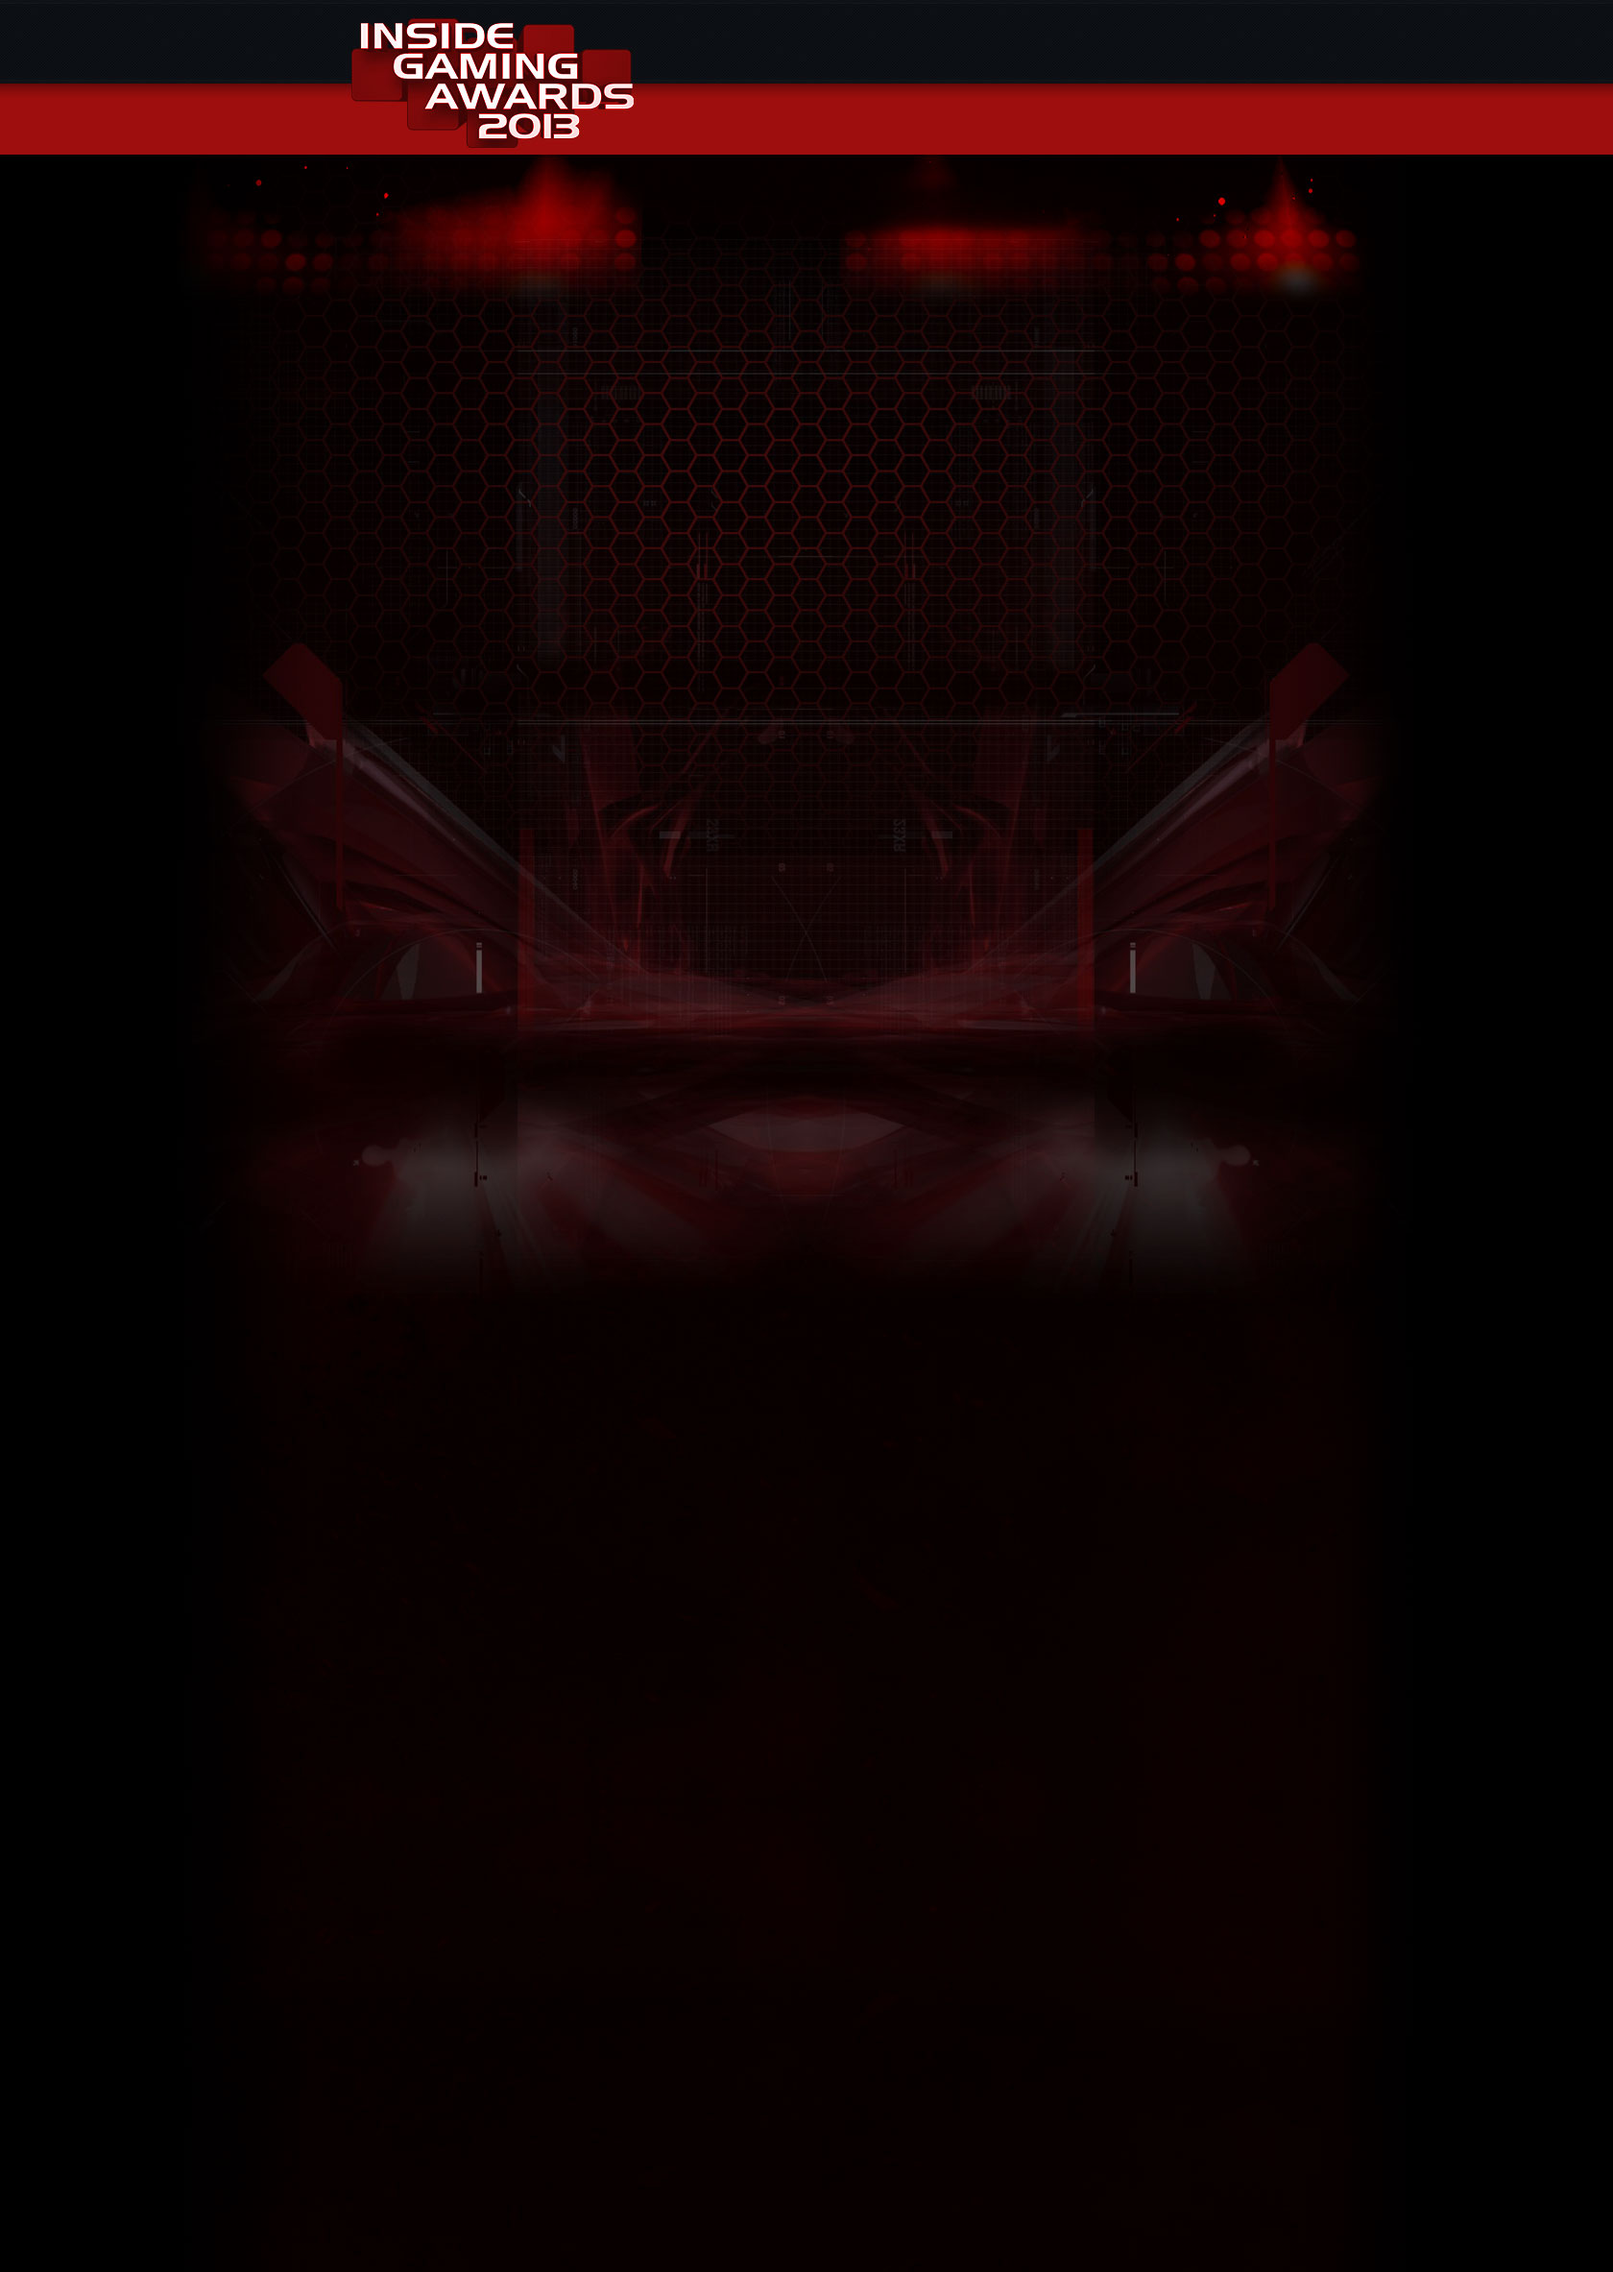
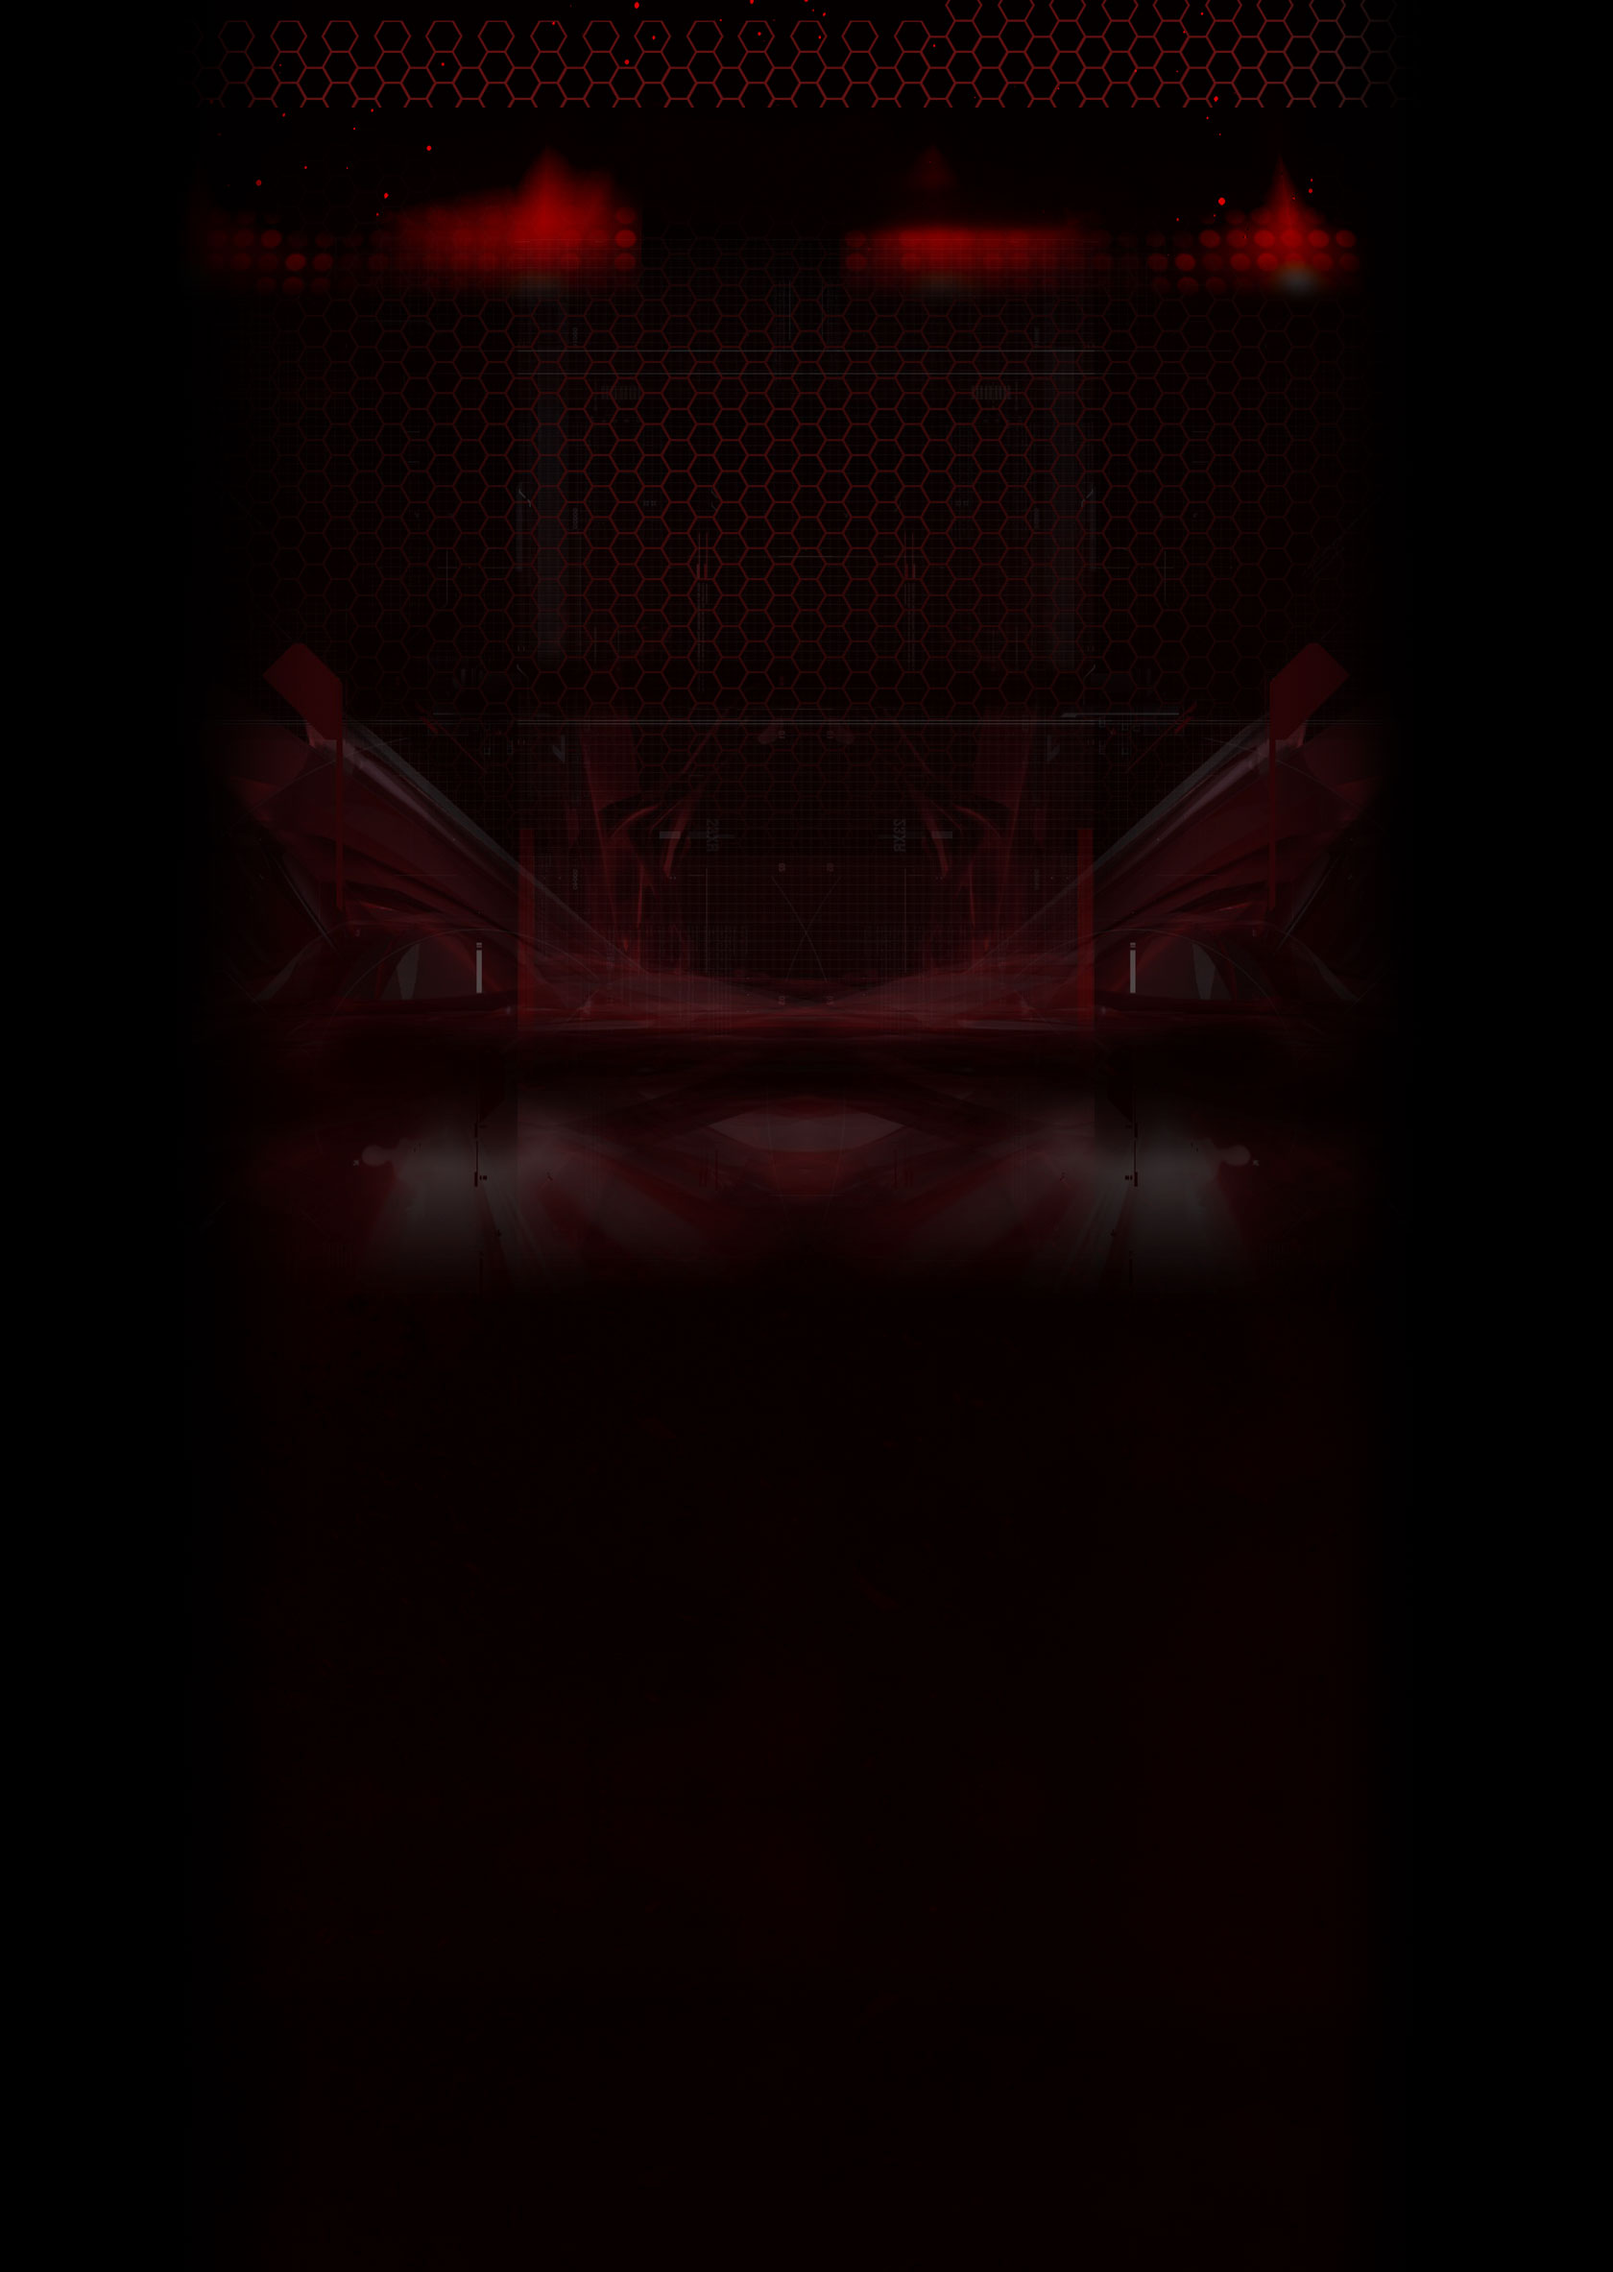
Almost finished layout

Changed region(s): [[0.0, 0.0, 1.0, 0.0926]]

diff --git a/app/webroot/css/iga.css b/app/webroot/css/iga.css
@@ -33,11 +33,15 @@
 }
 
 body {
-	/* background: #000 url(/img/reskin.jpg) no-repeat top center; */
+	background: #000 url(/img/reskin.jpg) no-repeat top center;
 	color: #fff;
 	margin: 0;
 	font-family: "ProximaNova-Regular", "Helvetica Neue", Arial, Helvetica, sans-serif;
     font-weight: "ProximaNova-Regular", "Helvetica Neue", Arial, Helvetica, sans-serif;
+}
+
+a {
+	outline: none;
 }
 
 .transition,
@@ -74,12 +78,25 @@ body {
 	position: relative;
 }
 
+#header-logo {
+	background: transparent url(/img/header-logo.png) no-repeat 0 0;
+	width: 295px;
+	height: 135px;
+	position: absolute;
+	top: 20px;
+	left: 0;
+	text-indent: -5000em;
+	margin: 0;
+}
+
 #social {
 	width: 250px;
 	height: 47px;
 	position: absolute;
 	top: 5px;
 	right: 0px;
+	margin: 0;
+	padding: 0;
 }
 
 #social > li {
@@ -96,15 +113,7 @@ body {
 }
 
 .social-icon:after {
-	content: "";
-	position: absolute;
-	top: 0; left: 0; bottom: 0; right: 0;
 	background: transparent url(/img/social-sprite.png) no-repeat 0 bottom;
-	opacity: 0;
-}
-
-.social-icon:hover:after {
-	opacity: 1;
 }
 
 #social-youtube {
@@ -147,26 +156,6 @@ body {
 	background-position: -164px bottom;
 }
 
-/*
-#social > li {
-	display: inline-block;
-	margin: 0 3px;
-}
-
-#social-icons {
-	padding: 0;
-	margin: 0;
-	position: absolute;
-	right: 15px;
-	top: 15px;
-}
-
-#social-icons > li > a {
-	text-indent: -5000em;
-	display: block;
-}
-*/
-
 /* =======================================================================
 	Twitter ticker
 ========================================================================== */
@@ -175,7 +164,6 @@ body {
 	top: 90px;
 	width: 100%;
 }
-/*
 
 #twitter-link {
 	background: transparent url(/img/twitter-sprite.png) no-repeat 0 0;
@@ -186,7 +174,6 @@ body {
 	height: 51px;
 	text-indent: -5000em;
 }
-*/
 
 #twitter-link:after {
 	background: transparent url(/img/twitter-sprite.png) no-repeat 0 -51px;
@@ -197,10 +184,10 @@ body {
 	position: absolute;
 	width: 23px;
 	height: 29px;
-	text-indent: -5000em;
 	top: -20px;
 	cursor: pointer;
 	display: block;
+	font-size: 0px;
 }
 
 #twitter-feed .carousel-control.left {
@@ -227,16 +214,16 @@ body {
 	background: transparent url(/img/twitter-sprite.png) no-repeat right bottom;
 }
 
-/*
-
 .carousel {
 	position: relative;
 }
 
 .carousel-inner {
 	position: relative;
-	width: 100%;
+	width: 600px;
 	overflow: hidden;
+	top: 23px;
+	left: 310px;
 }
 
 .carousel-inner > .item {
@@ -290,8 +277,6 @@ body {
 .carousel-inner > .active.right {
   left: 100%;
 }
-*/
-
 /* =======================================================================
 	Video player
 ========================================================================== */
@@ -340,7 +325,7 @@ body {
 	color: #fff;
 	width: 285px;
 	position: absolute;
-	top: 65px;
+	top: 68px;
 	right: 320px;
 	font-size: 28px;
 }
@@ -350,7 +335,7 @@ body {
 }
 
 #countdownTimer-days {
-	left: 20px;
+	left: 18px;
 }
 
 #countdownTimer-hours {
@@ -358,9 +343,8 @@ body {
 }
 
 #countdownTimer-minutes {
-	right: 89px;
+	right: 91px;
 }
-
 
 #countdownTimer-seconds {
 	right: 18px;
@@ -371,10 +355,10 @@ body {
 ========================================================================== */
 #games-list {
 	clear: both;
-	background-color: #0e0e10;
+	background: transparent url(/img/body-repeat.png) repeat-y 0 0;
 	width: 1000px;
 	margin: 0 auto;
-	padding: 0 15px;
+	padding: 0 15px 65px;
 }
 
 .game {
@@ -387,6 +371,7 @@ body {
 }
 
 .game-title {
+	color: #7e7e7f;
 	font-size: 18px;
 	margin: 0;
 	height: 26px;
@@ -402,31 +387,109 @@ body {
 	height: 40px;
 }
 
+.gameVote-facebook,
 .gameVote-twitter,
-.gameVote-facebook {
+.gameVote-general {
+	background: transparent url(/img/vote-sprite.png) no-repeat 0 0;
 	position: absolute;
+	border: 0 none;
+	text-indent: -5000em;
+	cursor: pointer;
+	top: 2px;
 }
 
 .gameVote-twitter {
-	left: 5px;
+	background-position: -31px 0;
+	left: 10px;
+	width: 31px;
+	height: 36px;
 }
 
 .gameVote-facebook {
-	left: 55px;
+	background-position: 0 0;
+	left: 62px;
+	width: 31px;
+	height: 36px;
 }
 
 .gameVote-general {
-	background: transparent url(/img/vote-buttons.png) no-repeat 0 0;
-	width: 99px;
-	height: 38px;
-	cursor: pointer;
-	border: 0 none;
-	text-indent: -5000em;
-	position: absolute;
-	right: -15px;
+	background-position: top right;
+	width: 101px;
+	height: 39px;
+	right: -13px;
+	top: -4px;
 }
 
+.gameVote-twitter:after {
+	background: transparent url(/img/vote-sprite.png) no-repeat -31px -39px;
+}
+
+.gameVote-facebook:after {
+	background: transparent url(/img/vote-sprite.png) no-repeat 0 -39px;
+}
+
+.gameVote-general:after {
+	background: transparent url(/img/vote-sprite.png) no-repeat bottom right;
+}
+
+/*
 .gameVote-general:hover,
 .gameVote-general:disabled {
 	background-position: 0 bottom;
+}
+*/
+
+/* =======================================================================
+	Game Showcase
+========================================================================== */
+#footer {
+	background: transparent url(/img/footer-repeat.jpg) repeat-x 0 0;
+	width: 100%;
+	height: 199px;
+	position: relative;
+}
+
+#footer-newsletter {
+	position: absolute;
+	width: 461px;
+	height: 80px;
+	left: 50%;
+	top: -45px;
+	transform: translate(-50%, 0);
+}
+
+#newsletter-header {
+	background: transparent url(/img/newsletter-sprite.png) no-repeat right top;
+	width: 92px;
+	height: 80px;
+	margin: 0 auto;
+	display: block;
+	text-indent: -5000em;
+}
+
+#newsletter-form {
+	width: inherit;
+	height: inherit;
+	position: relative;
+}
+
+#newsletter-input {
+	background: transparent url(/img/newsletter-sprite.png) no-repeat 0 0;
+	width: inherit;
+	height: inherit;
+	border: 0 none;
+	color: #fff;
+	text-indent: 30px;
+	font-size: 20px;
+}
+
+#newsletter-submit {
+	background: transparent url(/img/newsletter-sprite.png) no-repeat -461px 0;
+	width: 90px;
+	height: 49px;
+	border: 0 none;
+	color: #fff;
+	position: absolute;
+	top: 15px;
+	right: 15px;
 }

diff --git a/app/webroot/js/plugins/angular-ui/carousel.js b/app/webroot/js/plugins/angular-ui/carousel.js
@@ -210,7 +210,8 @@ angular.module('ui.bootstrap.carousel', ['ui.bootstrap.transition'])
     replace: true,
     controller: 'CarouselController',
     require: 'carousel',
-    templateUrl: 'template/carousel/carousel.html',
+    //templateUrl: 'template/carousel/carousel.html',
+    template: '<div data-ng-mouseenter="pause()" data-ng-mouseleave="play()" class="carousel"><div class="carousel-inner" data-ng-transclude></div><a data-ng-click="prev()" class="carousel-control left transition" data-ng-show="slides().length > 1">&lsaquo;</a><a data-ng-click="next()" class="carousel-control right transition" data-ng-show="slides().length > 1">&rsaquo;</a></div>',
     scope: {
       interval: '=',
       noTransition: '=',
@@ -289,7 +290,8 @@ function CarouselDemoCtrl($scope) {
     restrict: 'EA',
     transclude: true,
     replace: true,
-    templateUrl: 'template/carousel/slide.html',
+    template: '<div ng-class="{\'active\': leaving || (active && !entering),\'prev\': (next || active) && direction==\'prev\',\'next\': (next || active) && direction==\'next\',\'right\': direction==\'prev\',\'left\': direction==\'next\'}" class="item" ng-transclude></div>',
+    //templateUrl: 'template/carousel/slide.html',
     scope: {
     },
     link: function (scope, element, attrs, carouselCtrl) {

diff --git a/app/webroot/js/iga/controller.js b/app/webroot/js/iga/controller.js
@@ -3,6 +3,10 @@ var igaController = function($scope, Rest, $timeout) {
 	$scope.games 	= {};
 	$scope.voteDisabled	= '';
 	
+	$scope.carousel	= {
+		interval:	3000
+	}
+	
 	var timeout		= 3000;
 	
 	//Parse JSON feed of games
